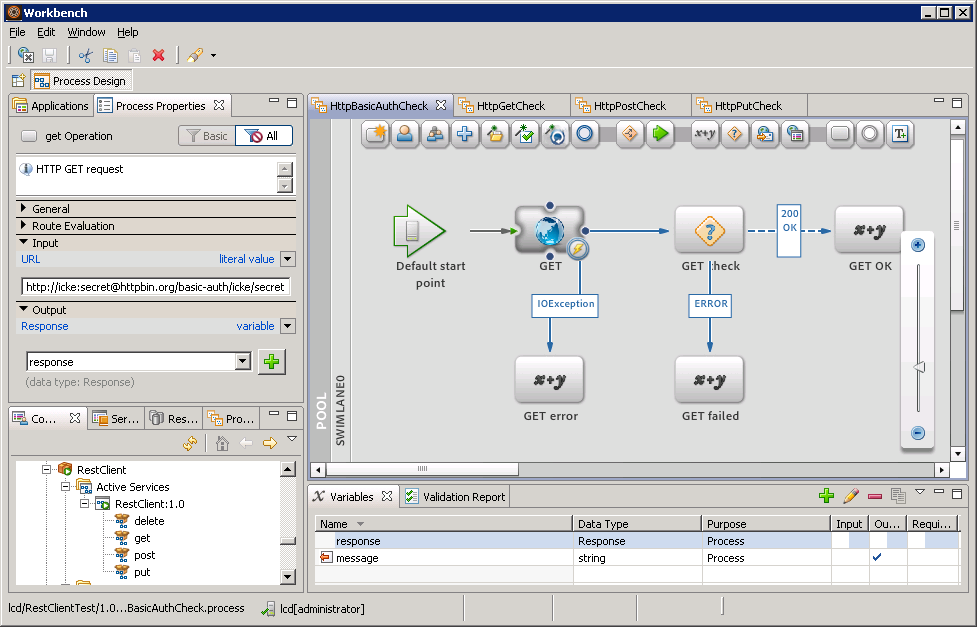
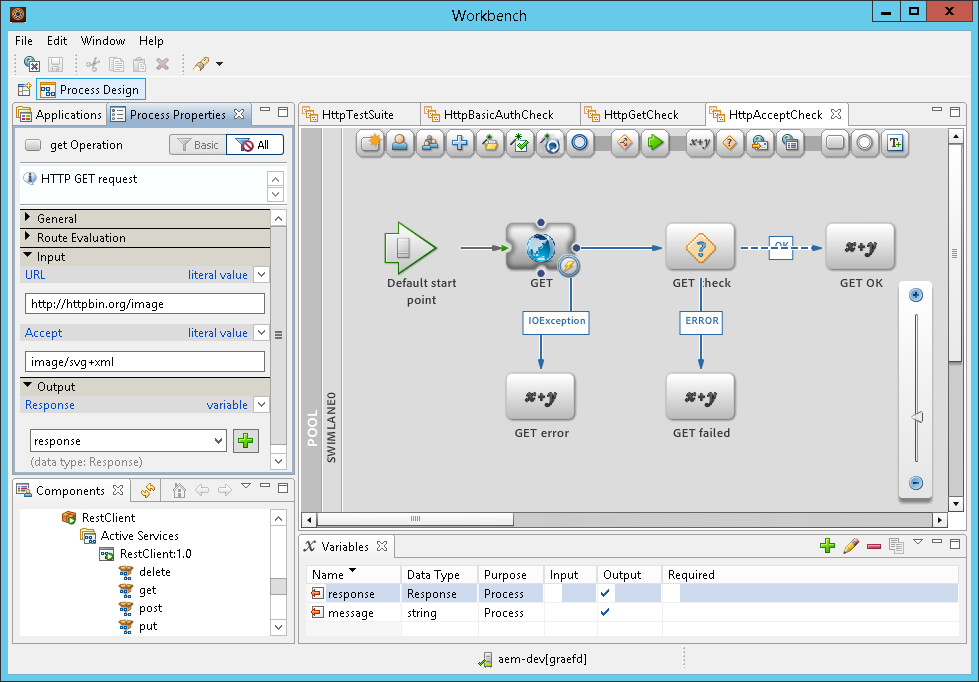
add Accept header param

diff --git a/src/test/java/de/htwb/lc/test/RestClientTest.java b/src/test/java/de/htwb/lc/test/RestClientTest.java
@@ -1,14 +1,7 @@
 package de.htwb.lc.test;
 
-import static org.junit.Assert.assertEquals;
-import static org.junit.Assert.fail;
-
-import java.io.IOException;
-
-import javax.servlet.ServletException;
-import javax.servlet.http.HttpServletRequest;
-import javax.servlet.http.HttpServletResponse;
-
+import de.htwb.lc.Response;
+import de.htwb.lc.RestClient;
 import org.apache.commons.io.IOUtils;
 import org.eclipse.jetty.security.ConstraintMapping;
 import org.eclipse.jetty.security.ConstraintSecurityHandler;
@@ -25,8 +18,13 @@ import org.junit.After;
 import org.junit.Before;
 import org.junit.Test;
 
-import de.htwb.lc.Response;
-import de.htwb.lc.RestClient;
+import javax.servlet.ServletException;
+import javax.servlet.http.HttpServletRequest;
+import javax.servlet.http.HttpServletResponse;
+import java.io.IOException;
+
+import static org.junit.Assert.assertEquals;
+import static org.junit.Assert.fail;
 
 @SuppressWarnings("serial")
 public class RestClientTest {
@@ -61,7 +59,7 @@ public class RestClientTest {
         final String content = "REST DELETE TEST";
         server.setHandler(new AbstractHandler() {
             public void handle(String target, Request baseRequest, HttpServletRequest request,
-                    HttpServletResponse response) throws IOException, ServletException {
+                               HttpServletResponse response) throws IOException, ServletException {
                 response.setContentType("text/plain;charset=utf-8");
                 response.setStatus(HttpServletResponse.SC_OK);
                 response.getWriter().print(content);
@@ -82,7 +80,7 @@ public class RestClientTest {
         final String content = "REST GET TEST";
         server.setHandler(new AbstractHandler() {
             public void handle(String target, Request baseRequest, HttpServletRequest request,
-                    HttpServletResponse response) throws IOException, ServletException {
+                               HttpServletResponse response) throws IOException, ServletException {
                 response.setContentType("text/plain;charset=utf-8");
                 response.setStatus(HttpServletResponse.SC_OK);
                 response.getWriter().print(content);
@@ -98,15 +96,38 @@ public class RestClientTest {
         assertEquals("text/plain;charset=utf-8", response.getContentType());
     }
 
+
+    @Test
+    public void testGETxml() throws IOException {
+        final String content = "REST GET XML TEST";
+        server.setHandler(new AbstractHandler() {
+            public void handle(String target, Request baseRequest, HttpServletRequest request,
+                               HttpServletResponse response) throws IOException, ServletException {
+                assertEquals("application/xml", request.getHeader("Accept"));
+                response.setContentType("application/xml;charset=utf-8");
+                response.setStatus(HttpServletResponse.SC_OK);
+                response.getWriter().print(content);
+                baseRequest.setHandled(true);
+            }
+        });
+        startJetty();
+        Response response = client.get("http://" + HOST + ":" + PORT + "/", "application/xml");
+        assertEquals(200, response.getCode());
+        assertEquals(content, response.getBody());
+        assertEquals(content.length(), response.getLength());
+        assertEquals("utf-8", response.getCharSet());
+        assertEquals("application/xml;charset=utf-8", response.getContentType());
+    }
+
     /**
      * Creates a security handler that only accepts request of admin users.
-     * 
+     *
      * @return handler
      */
     private ConstraintSecurityHandler createAdminSecurityHandler() {
         Constraint constraint = new Constraint();
         constraint.setName(Constraint.__FORM_AUTH);
-        constraint.setRoles(new String[] { "admin" });
+        constraint.setRoles(new String[]{"admin"});
         constraint.setAuthenticate(true);
 
         ConstraintMapping constraintMapping = new ConstraintMapping();
@@ -116,8 +137,8 @@ public class RestClientTest {
         ConstraintSecurityHandler securityHandler = new ConstraintSecurityHandler();
         securityHandler.addConstraintMapping(constraintMapping);
         HashLoginService loginService = new HashLoginService();
-        loginService.putUser("admin1", new Password("password"), new String[] { "admin" });
-        loginService.putUser("user1", new Password("password"), new String[] { "user" });
+        loginService.putUser("admin1", new Password("password"), new String[]{"admin"});
+        loginService.putUser("user1", new Password("password"), new String[]{"user"});
         securityHandler.setLoginService(loginService);
         return securityHandler;
     }
@@ -159,14 +180,14 @@ public class RestClientTest {
         final String content = "REST POST TEST";
         server.setHandler(new AbstractHandler() {
             public void handle(String target, Request baseRequest, HttpServletRequest request,
-                    HttpServletResponse response) throws IOException, ServletException {
+                               HttpServletResponse response) throws IOException, ServletException {
+                assertEquals("text/plain; charset=ISO-8859-1", request.getContentType());
+                assertEquals("ISO-8859-1", request.getCharacterEncoding());
+                assertEquals(content, IOUtils.toString(request.getInputStream(), request.getCharacterEncoding()));
                 response.setContentType("text/plain;charset=utf-8");
                 response.setStatus(HttpServletResponse.SC_OK);
                 response.getWriter().print(content);
                 baseRequest.setHandled(true);
-                assertEquals("text/plain; charset=ISO-8859-1", request.getContentType());
-                assertEquals("ISO-8859-1", request.getCharacterEncoding());
-                assertEquals(content, IOUtils.toString(request.getInputStream(), request.getCharacterEncoding()));
             }
         });
         startJetty();
@@ -183,14 +204,14 @@ public class RestClientTest {
         final String content = "REST PUT TEST";
         server.setHandler(new AbstractHandler() {
             public void handle(String target, Request baseRequest, HttpServletRequest request,
-                    HttpServletResponse response) throws IOException, ServletException {
+                               HttpServletResponse response) throws IOException, ServletException {
+                assertEquals("text/plain; charset=ISO-8859-1", request.getContentType());
+                assertEquals("ISO-8859-1", request.getCharacterEncoding());
+                assertEquals(content, IOUtils.toString(request.getInputStream(), request.getCharacterEncoding()));
                 response.setContentType("text/plain;charset=utf-8");
                 response.setStatus(HttpServletResponse.SC_OK);
                 response.getWriter().print(content);
                 baseRequest.setHandled(true);
-                assertEquals("text/plain; charset=ISO-8859-1", request.getContentType());
-                assertEquals("ISO-8859-1", request.getCharacterEncoding());
-                assertEquals(content, IOUtils.toString(request.getInputStream(), request.getCharacterEncoding()));
             }
         });
         startJetty();

diff --git a/src/main/java/de/htwb/lc/RestClient.java b/src/main/java/de/htwb/lc/RestClient.java
@@ -1,19 +1,15 @@
 package de.htwb.lc;
 
-import java.io.IOException;
-import java.net.MalformedURLException;
-import java.net.URL;
-
 import org.apache.commons.httpclient.Header;
 import org.apache.commons.httpclient.HttpClient;
 import org.apache.commons.httpclient.HttpMethodBase;
 import org.apache.commons.httpclient.UsernamePasswordCredentials;
 import org.apache.commons.httpclient.auth.AuthScope;
-import org.apache.commons.httpclient.methods.DeleteMethod;
-import org.apache.commons.httpclient.methods.GetMethod;
-import org.apache.commons.httpclient.methods.PostMethod;
-import org.apache.commons.httpclient.methods.PutMethod;
-import org.apache.commons.httpclient.methods.StringRequestEntity;
+import org.apache.commons.httpclient.methods.*;
+
+import java.io.IOException;
+import java.net.MalformedURLException;
+import java.net.URL;
 
 public class RestClient {
 
@@ -34,9 +30,16 @@ public class RestClient {
         return client;
     }
 
-    private Response execute(HttpClient client, HttpMethodBase method) throws IOException {
+    private Response execute(HttpClient client, HttpMethodBase method, String accept) throws IOException {
+        // set accept header
+        if (accept != null) {
+            method.addRequestHeader("Accept", accept);
+        }
+
+        // call HTTP
         int code = client.executeMethod(method);
 
+        // get headers
         String charSet = method.getResponseCharSet();
         long length = method.getResponseContentLength();
         String body = method.getResponseBodyAsString();
@@ -47,28 +50,45 @@ public class RestClient {
             contentType = contentTypeHeader.getValue();
         }
 
+        // release and return
         method.releaseConnection();
         return new Response(code, body, charSet, contentType, length);
     }
 
+    public Response delete(String url, String accept) throws IOException {
+        return execute(createClient(url), new DeleteMethod(url), accept);
+    }
+
     public Response delete(String url) throws IOException {
-        return execute(createClient(url), new DeleteMethod(url));
+        return delete(url, null);
+    }
+
+    public Response get(String url, String accept) throws IOException {
+        return execute(createClient(url), new GetMethod(url), accept);
     }
 
     public Response get(String url) throws IOException {
-        return execute(createClient(url), new GetMethod(url));
+        return get(url, null);
+    }
+
+    public Response post(String url, String accept, String body, String contentType, String charset) throws IOException {
+        PostMethod method = new PostMethod(url);
+        method.setRequestEntity(new StringRequestEntity(body, contentType, charset));
+        return execute(createClient(url), method, accept);
     }
 
     public Response post(String url, String body, String contentType, String charset) throws IOException {
-        PostMethod method = new PostMethod(url);
+        return post(url, null, body, contentType, charset);
+    }
+
+    public Response put(String url, String accept, String body, String contentType, String charset) throws IOException {
+        PutMethod method = new PutMethod(url);
         method.setRequestEntity(new StringRequestEntity(body, contentType, charset));
-        return execute(createClient(url), method);
+        return execute(createClient(url), method, accept);
     }
 
     public Response put(String url, String body, String contentType, String charset) throws IOException {
-        PutMethod method = new PutMethod(url);
-        method.setRequestEntity(new StringRequestEntity(body, contentType, charset));
-        return execute(createClient(url), method);
+        return put(url, null, body, contentType, charset);
     }
 
 }
